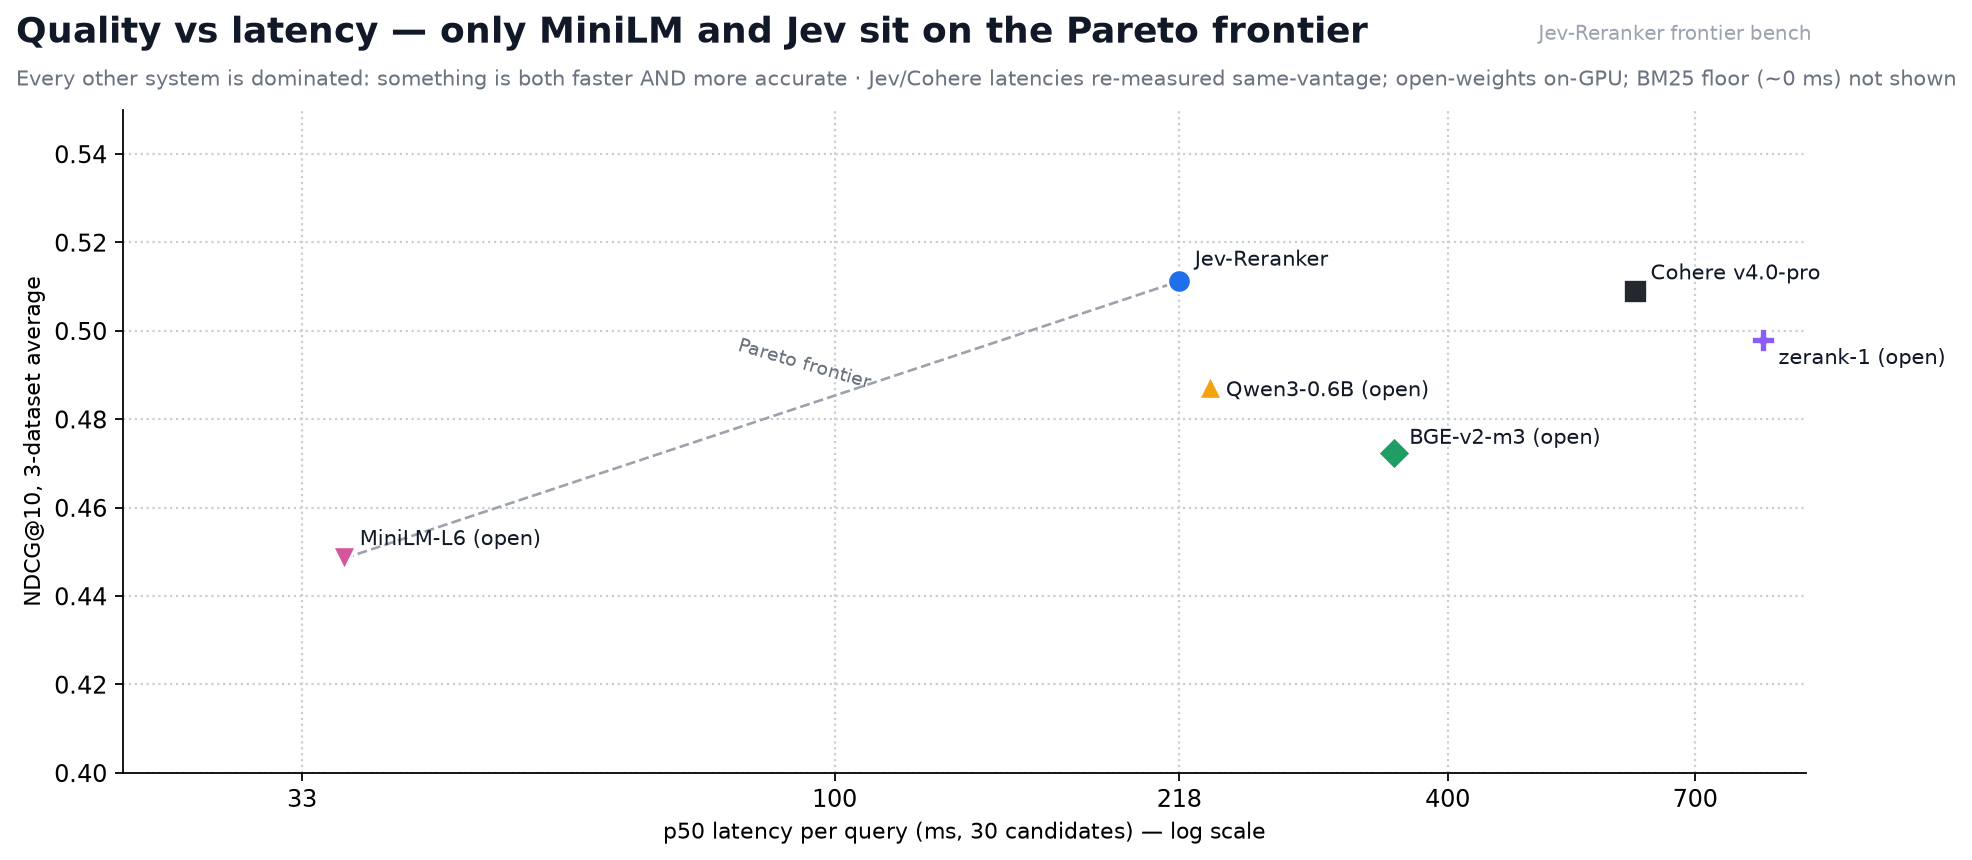
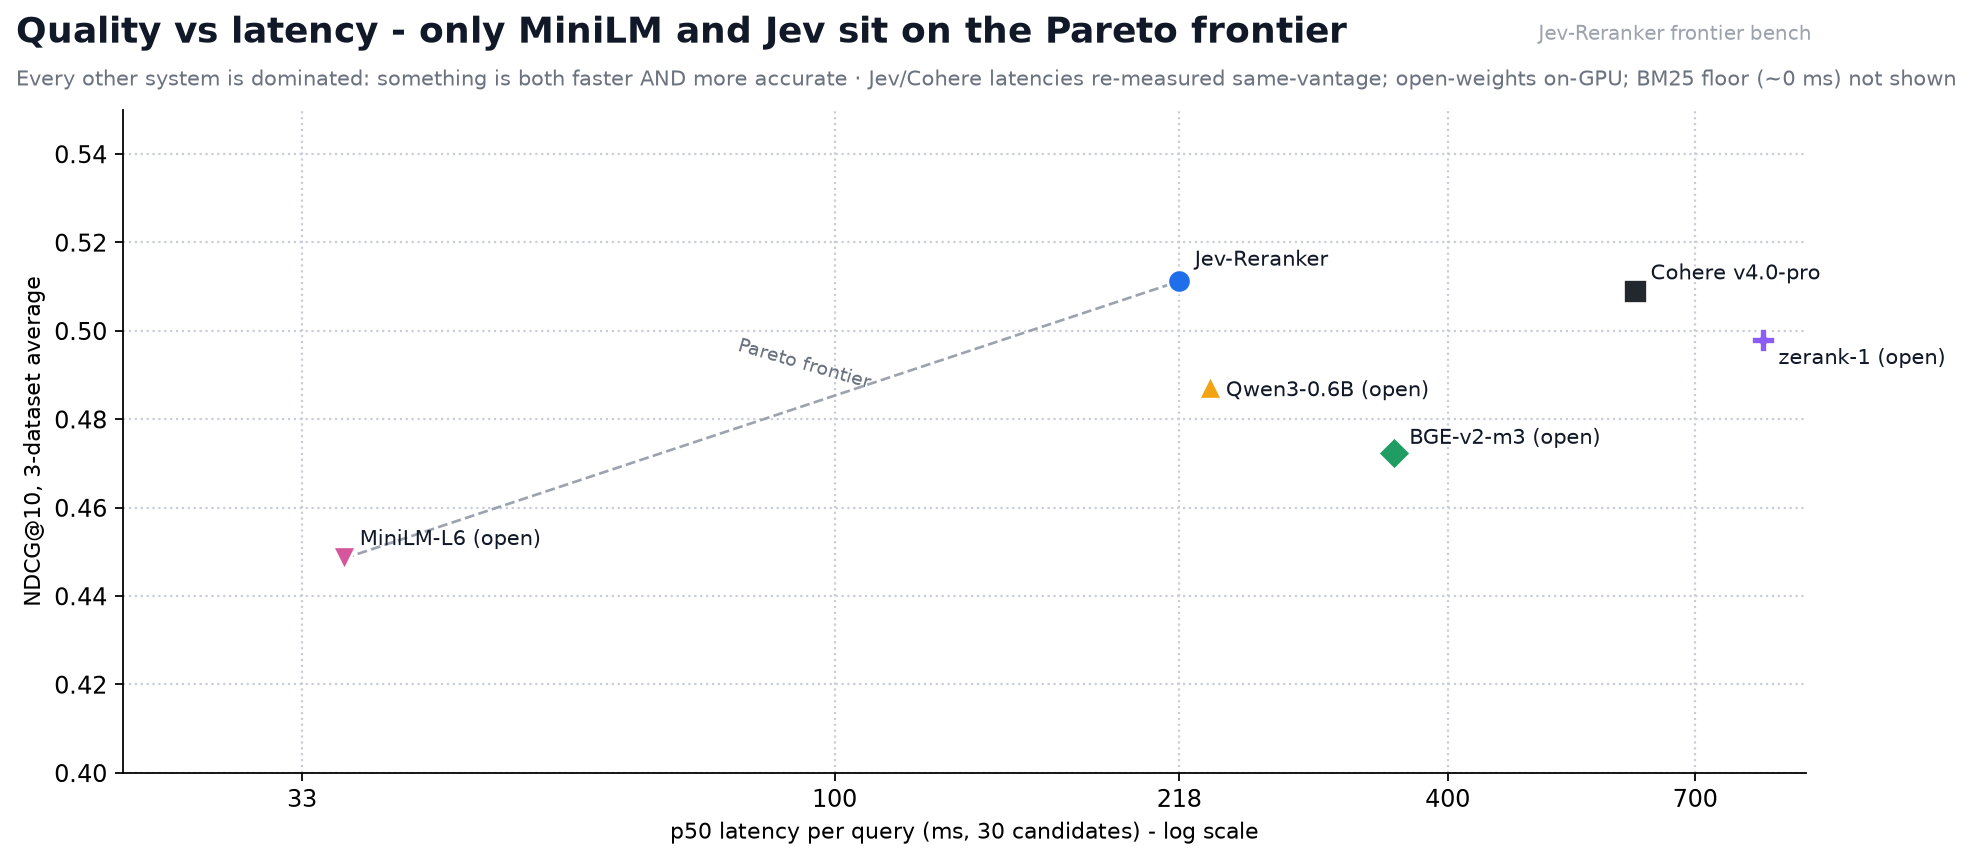
docs: replace em/en dashes with plain hyphens across all prose, docstrings and chart titles

Changed region(s): [[0.1856, 0.0, 0.7115, 0.0605], [0.3403, 0.9372, 0.6496, 0.9977]]

diff --git a/benchmarks/frontier/make_visuals.py b/benchmarks/frontier/make_visuals.py
@@ -1,7 +1,7 @@
 """Render the frontier-comparison charts from committed per-query rows.
 
 Every number shown is recomputed here from the committed JSONLs with
-pytrec_eval (the same evaluator the runners used) — nothing hand-typed.
+pytrec_eval (the same evaluator the runners used) - nothing hand-typed.
 Visual style follows the Artificial-Analysis leaderboard look: rounded
 bars, values inside, dotted grid, quiet axes.
 
@@ -108,7 +108,7 @@ def value_label(ax, x, height, ymax, text, inside=True):
 
 
 def aa_axes(ax, ymax):
-    """Dotted horizontal grid, no visible y-axis — values live in the bars."""
+    """Dotted horizontal grid, no visible y-axis - values live in the bars."""
     ax.set_ylim(0, ymax)
     ticks = np.linspace(0, ymax, 6)[1:]
     ax.set_yticks(ticks)
@@ -149,7 +149,7 @@ def main() -> None:
     keys_present = [k for k in COLORS if k in avgs]
     ymax = max(v for ds in DATASETS for v in summary[ds].values()) * 1.15
 
-    # Chart 1 — grouped bars per dataset.
+    # Chart 1 - grouped bars per dataset.
     fig, ax = plt.subplots(figsize=(13, 5.6), dpi=160)
     width = 0.8 / len(keys_present)
     x = np.arange(len(DATASETS))
@@ -173,7 +173,7 @@ def main() -> None:
     fig.savefig(ROOT / "frontier_ndcg_by_dataset.png", bbox_inches="tight")
     plt.close(fig)
 
-    # Chart 2 — 3-set average, sorted descending.
+    # Chart 2 - 3-set average, sorted descending.
     order = sorted(keys_present, key=lambda k: -avgs[k])
     fig, ax = plt.subplots(figsize=(12, 5.2), dpi=160)
     x = np.arange(len(order))
@@ -184,13 +184,13 @@ def main() -> None:
     ax.set_xlim(-0.5, len(order) - 0.5)
     ax.set_xticklabels([LABELS[k] for k in order], fontsize=10.5)
     aa_axes(ax, ymax)
-    masthead(fig, "3-dataset average — Jev-Reranker leads the frontier table",
+    masthead(fig, "3-dataset average - Jev-Reranker leads the frontier table",
              "NDCG@10, mean of scifact / nfcorpus / fiqa · mini-study: single seed, 200 queries per dataset")
     fig.subplots_adjust(top=0.8, bottom=0.1, left=0.03, right=0.985)
     fig.savefig(ROOT / "frontier_average_ndcg.png", bbox_inches="tight")
     plt.close(fig)
 
-    # Chart 3 — lift over the BM25 floor.
+    # Chart 3 - lift over the BM25 floor.
     rerank_keys = [k for k in RERANKERS if k in avgs]
     fig, ax = plt.subplots(figsize=(13, 5.4), dpi=160)
     width = 0.8 / len(rerank_keys)
@@ -215,7 +215,7 @@ def main() -> None:
     fig.savefig(ROOT / "frontier_lift_over_bm25.png", bbox_inches="tight")
     plt.close(fig)
 
-    # Chart 4 — latency, same-vantage API pair + on-GPU lanes.
+    # Chart 4 - latency, same-vantage API pair + on-GPU lanes.
     lat = [
         ("MiniLM-L6 (open)\non-GPU", ONNODE_LATENCY["ms-marco-minilm-l6-v2"], "#D6569B"),
         ("Qwen3-0.6B (open)\non-GPU", ONNODE_LATENCY["qwen3-reranker-0.6b"], "#F2A30F"),
@@ -234,7 +234,7 @@ def main() -> None:
     ax.set_xticks(x)
     ax.set_xticklabels([n for n, _, _ in lat], fontsize=10)
     aa_axes(ax, lat_ymax)
-    masthead(fig, "Latency per query — p50, 30 candidates",
+    masthead(fig, "Latency per query - p50, 30 candidates",
              "Jev & Cohere re-measured from the SAME vantage, rotating live queries, n=10, zero cache hits (fair pair) · "
              "open-weights lanes measured on-node · different vantages are directional only")
     fig.subplots_adjust(top=0.8, bottom=0.12, left=0.03, right=0.985)
@@ -242,7 +242,7 @@ def main() -> None:
     plt.close(fig)
 
 
-    # Chart 5 — quality vs latency frontier (two parameters, one view).
+    # Chart 5 - quality vs latency frontier (two parameters, one view).
     zerank_lats2 = []
     for ds in DATASETS:
         for line in (ROOT / f"{ds}__zerank-1.jsonl").read_text(encoding="utf-8").splitlines():
@@ -285,9 +285,9 @@ def main() -> None:
     ax.set_axisbelow(True)
     for side in ("top", "right"):
         ax.spines[side].set_visible(False)
-    ax.set_xlabel("p50 latency per query (ms, 30 candidates) — log scale", fontsize=10)
+    ax.set_xlabel("p50 latency per query (ms, 30 candidates) - log scale", fontsize=10)
     ax.set_ylabel("NDCG@10, 3-dataset average", fontsize=10)
-    masthead(fig, "Quality vs latency — only MiniLM and Jev sit on the Pareto frontier",
+    masthead(fig, "Quality vs latency - only MiniLM and Jev sit on the Pareto frontier",
              "Every other system is dominated: something is both faster AND more accurate · "
              "Jev/Cohere latencies re-measured same-vantage; open-weights on-GPU; BM25 floor (~0 ms) not shown")
     ax.annotate("Pareto frontier", (80, 0.487), fontsize=8.5, color="#6B7280", rotation=-16)
@@ -295,7 +295,7 @@ def main() -> None:
     fig.savefig(ROOT / "frontier_quality_vs_latency.png", bbox_inches="tight")
     plt.close(fig)
 
-    # Chart 6 — systems x datasets heatmap (all three datasets + average).
+    # Chart 6 - systems x datasets heatmap (all three datasets + average).
     heat_keys = sorted(keys_present, key=lambda k: -avgs[k])
     cols = list(DATASETS) + ["average"]
     matrix = []
@@ -327,7 +327,7 @@ def main() -> None:
     fig.savefig(ROOT / "frontier_heatmap.png", bbox_inches="tight")
     plt.close(fig)
 
-    # Chart 7 — open-weights quality vs model size, hosted APIs as reference lines.
+    # Chart 7 - open-weights quality vs model size, hosted APIs as reference lines.
     scale = [
         ("MiniLM-L6", 0.022, avgs["ms-marco-minilm-l6-v2"], "#D6569B", (6, -12)),
         ("BGE-v2-m3", 0.568, avgs["bge-reranker-v2-m3"], "#1F9D63", (6, -12)),
@@ -337,9 +337,9 @@ def main() -> None:
     fig, ax = plt.subplots(figsize=(11, 5.4), dpi=160)
     ax.axhline(avgs["jev-latest"], linestyle="--", color="#1F6FEB", linewidth=1.4, zorder=2)
     ax.axhline(avgs["cohere"], linestyle="--", color="#23272E", linewidth=1.2, zorder=2)
-    ax.annotate("Jev-Reranker (API) — 0.511", (0.023, avgs["jev-latest"]), xytext=(4, 5),
+    ax.annotate("Jev-Reranker (API) - 0.511", (0.023, avgs["jev-latest"]), xytext=(4, 5),
                 textcoords="offset points", fontsize=9.5, fontweight="bold", color="#1F6FEB")
-    ax.annotate("Cohere v4.0-pro (API) — 0.509", (0.023, avgs["cohere"]), xytext=(4, -12),
+    ax.annotate("Cohere v4.0-pro (API) - 0.509", (0.023, avgs["cohere"]), xytext=(4, -12),
                 textcoords="offset points", fontsize=9.5, color="#23272E")
     for name, params, qual, color, off in scale:
         ax.scatter(params, qual, s=120, color=color, edgecolor="white", linewidth=1.2, zorder=4)

diff --git a/src/jev_reranker/rubric.py b/src/jev_reranker/rubric.py
@@ -1,13 +1,13 @@
 """Question rubrics: the text Jev is actually asked, per head.
 
 The policy math is domain-generic, but the *questions* encode what a domain
-means by "relevant", "usable", "superseded", "conflicting" — so they are
+means by "relevant", "usable", "superseded", "conflicting" - so they are
 configurable. A :class:`Rubric` carries one question per head (``rel``/``util``
 Score heads with 4-level 0-3 criteria, ``sup``/``con`` Noul heads with
 true/false criteria). Instructions may contain the literal token ``[cid]``,
 replaced with each candidate's id at question-build time.
 
-Built-in presets: ``agent_memory`` (the default — byte-identical to the
+Built-in presets: ``agent_memory`` (the default - byte-identical to the
 originally hard-coded questions), ``generic_retrieval`` (documents/RAG), and
 ``code_search``. A fully custom rubric is one ``Rubric`` instance away:
 ``JevReranker(rubric=Rubric(...))``.
@@ -85,7 +85,7 @@ AGENT_MEMORY = Rubric(
     ),
     sup=NoulHeadRubric(
         instructions=(
-            "Is the fact in candidate [cid] superseded — that is, replaced or invalidated "
+            "Is the fact in candidate [cid] superseded - that is, replaced or invalidated "
             "by newer information about the same fact (in the other candidates or the query)?"
         ),
         criteria={
@@ -124,7 +124,7 @@ GENERIC_RETRIEVAL = Rubric(
     ),
     sup=NoulHeadRubric(
         instructions=(
-            "Is the content in candidate [cid] superseded — replaced or invalidated by newer "
+            "Is the content in candidate [cid] superseded - replaced or invalidated by newer "
             "information about the same subject (in the other candidates or the query)?"
         ),
         criteria={
@@ -163,7 +163,7 @@ CODE_SEARCH = Rubric(
     ),
     sup=NoulHeadRubric(
         instructions=(
-            "Is the code in candidate [cid] superseded — a deprecated or replaced API/version "
+            "Is the code in candidate [cid] superseded - a deprecated or replaced API/version "
             "made obsolete by newer information (in the other candidates or the query)?"
         ),
         criteria={

diff --git a/demo/arena.py b/demo/arena.py
@@ -127,7 +127,7 @@ LABEL_COLORS = {
 def render_html(sample_results: list[dict[str, Any]]) -> str:
     parts = [
         "<!doctype html><html><head><meta charset='utf-8'>",
-        "<title>Reranker Arena — Jev-Reranker</title>",
+        "<title>Reranker Arena - Jev-Reranker</title>",
         "<style>",
         "body{font-family:system-ui,sans-serif;margin:2rem;background:#f8fafc;color:#0f172a}",
         "h1{font-size:1.4rem} h2{font-size:1.1rem;margin-top:2rem}",
@@ -142,7 +142,7 @@ def render_html(sample_results: list[dict[str, Any]]) -> str:
         "font-family:ui-monospace,monospace;font-size:0.85rem}",
         ".text{font-size:0.85rem;color:#334155;margin-top:4px}",
         "</style></head><body>",
-        "<h1>Reranker Arena — retrieval order vs Jev-Reranker</h1>",
+        "<h1>Reranker Arena - retrieval order vs Jev-Reranker</h1>",
     ]
     for r in sample_results:
         parts.append(f"<h2>Query: {r['query']}</h2>")
@@ -198,7 +198,7 @@ def main() -> None:
     try:
         import streamlit as st
 
-        st.title("Reranker Arena — retrieval order vs Jev-Reranker")
+        st.title("Reranker Arena - retrieval order vs Jev-Reranker")
         idx = st.selectbox("sample", range(len(SAMPLES)), format_func=lambda i: SAMPLES[i]["query"])
         s = SAMPLES[int(idx)]
         query = st.text_input("query", s["query"])
@@ -207,7 +207,7 @@ def main() -> None:
         if st.button("Rerank"):
             out = run_demo(query, [t for t in texts if t.strip()], budget_tokens=budget)
             for x in out["reranked"]:
-                st.markdown(f"**{x['id']}** `{x['label']}` value={x['value']} — {x['text']}")
+                st.markdown(f"**{x['id']}** `{x['label']}` value={x['value']} - {x['text']}")
                 for name, val in x["heads"].items():
                     st.progress(val, text=f"{name} {val:.2f}")
             st.json({k: v for k, v in out.items() if k != "reranked"})

diff --git a/src/jev_reranker/policy.py b/src/jev_reranker/policy.py
@@ -1,7 +1,7 @@
 """Deterministic ranking policy.
 
 Jev makes judgments (relevance Score 0-3, utility Score 0-3, superseded Noul,
-conflict Noul). This module — pure Python, no model calls — turns those
+conflict Noul). This module - pure Python, no model calls - turns those
 judgments into a ranking. Transparent, configurable coefficients, versioned.
 
 Hard rules:
@@ -123,7 +123,7 @@ def assign_label(
 
     Head flags gate on their OWN probability: superseded/conflict are Noul
     probabilities, so STALE/CONFLICT fire when the head crosses its threshold
-    (dominant head wins when both fire) — never on Score-head confidence.
+    (dominant head wins when both fire) - never on Score-head confidence.
     Score-head confidence gates only the VALUE labels: below the gate an item
     becomes UNCERTAIN instead of acting on its value. Confidence never scales
     the value itself.
@@ -151,7 +151,7 @@ def apply_policy(
     cfg: PolicyConfig | None = None,
     heads: tuple[HeadName, ...] = ("rel", "util", "sup", "con"),
 ) -> list[RankedItem]:
-    """Rank candidates best-first. Pure function — no I/O, no model calls.
+    """Rank candidates best-first. Pure function - no I/O, no model calls.
 
     Deterministic ``source_priority`` metadata is a tie-breaker (after value
     and confidence, before retrieval order): never a question to Jev.

diff --git a/src/jev_reranker/judges.py b/src/jev_reranker/judges.py
@@ -1,9 +1,9 @@
 """Judge backends: the thing that turns (query, candidates) into head judgments.
 
-- ``LiveJevJudge``: the real path — one ``TypeSafeClient.system_one()`` call
+- ``LiveJevJudge``: the real path - one ``TypeSafeClient.system_one()`` call
   per rerank with all active heads batched. Requires ``TYPESAFE_API_KEY``.
 - ``AsyncLiveJevJudge``: identical but on the SDK's native async client
-  (``AsyncTypeSafeClient``) — one async call per rerank, no executor.
+  (``AsyncTypeSafeClient``) - one async call per rerank, no executor.
 - ``OfflineJudge``: deterministic lexical judge with identical answer shapes,
   for tests / synthetic eval / demos without a key. Clearly labeled everywhere
   it is used; never presented as Jev output.
@@ -60,7 +60,7 @@ class Judge(Protocol):
 
 
 class AsyncJudge(Protocol):
-    """Async twin of :class:`Judge` — one awaitable remote call per rerank."""
+    """Async twin of :class:`Judge` - one awaitable remote call per rerank."""
 
     @property
     def model_name(self) -> str: ...
@@ -245,7 +245,7 @@ class LiveJevJudge:
 class AsyncLiveJevJudge:
     """Native-async Jev backend on the SDK's ``AsyncTypeSafeClient``.
 
-    One awaited ``system_one`` call per rerank — no thread executor.
+    One awaited ``system_one`` call per rerank - no thread executor.
     """
 
     def __init__(

diff --git a/src/jev_reranker/reranker.py b/src/jev_reranker/reranker.py
@@ -1,17 +1,17 @@
 """JevReranker: drop-in reranker API with three behavioral modes.
 
-- ``relevance``: classic query/passage rerank — the relevance head ONLY
+- ``relevance``: classic query/passage rerank - the relevance head ONLY
   (one Score question per candidate); value = normalized relevance.
 - ``memory``: all four heads (relevance, utility, superseded, conflict);
   STALE/CONFLICT/UNCERTAIN labels surfaced.
 - ``context``: memory heads PLUS token-budget selection with embedding-based
   near-duplicate suppression. Two-pass structure, documented:
-    pass 1 (Jev): ONE batched call — 4 heads per candidate, ranked + labeled;
+    pass 1 (Jev): ONE batched call - 4 heads per candidate, ranked + labeled;
     pass 2 (local code): near-duplicate suppression (``dedup.py``), then a
     greedy value-per-token knapsack over the survivors. Pass 2 makes no
     remote calls.
 
-Async-first (``arerank``/``aselect``) — the judge call itself is awaited on
+Async-first (``arerank``/``aselect``) - the judge call itself is awaited on
 the SDK's async client when the judge supports it; sync wrappers
 (``rerank``/``select``) for drop-in use. Exactly one judge call per
 invocation (or cache hit).

diff --git a/src/jev_reranker/server.py b/src/jev_reranker/server.py
@@ -4,14 +4,14 @@
     uvicorn jev_reranker.server:app --port 8494
 
 Endpoints:
-- ``POST /rerank`` — Cohere-compatible: ``{query, documents, top_n}`` ->
+- ``POST /rerank`` - Cohere-compatible: ``{query, documents, top_n}`` ->
   ``{id, results: [{index, relevance_score, document}], meta}``
-- ``POST /select`` — token-budget selection: ``{query, documents, budget_tokens}``
-- ``GET  /health`` — judge/model info
+- ``POST /select`` - token-budget selection: ``{query, documents, budget_tokens}``
+- ``GET  /health`` - judge/model info
 
 The judge is chosen at startup like ``JevReranker()``: live Jev iff
 ``TYPESAFE_API_KEY`` is set, else the offline judge (``/health`` reports
-which one is serving — offline responses are never presented as Jev output).
+which one is serving - offline responses are never presented as Jev output).
 """
 
 from __future__ import annotations

diff --git a/src/jev_reranker/eval_synthetic.py b/src/jev_reranker/eval_synthetic.py
@@ -4,8 +4,8 @@ Generates N cases (default 300) across 6 hard categories, each with a query,
 candidates (1 gold), and gold labels. Runner executes the REAL pipeline
 (``JevReranker``) with either the live Jev judge (--judge live) or the
 deterministic OfflineJudge (default, CI-fast baseline) and reports measured
-metrics — recall@1/3, label F1 on STALE/CONFLICT, fallback rate, cache-hit
-rate, judge calls per rerank — plus a provenance block. Nothing is claimed
+metrics - recall@1/3, label F1 on STALE/CONFLICT, fallback rate, cache-hit
+rate, judge calls per rerank - plus a provenance block. Nothing is claimed
 without being measured here.
 
 For the harder 10-category benchmark see ``benchmarks/memorybench_jr/``.

diff --git a/src/jev_reranker/models.py b/src/jev_reranker/models.py
@@ -76,10 +76,10 @@ class PolicyConfig(BaseModel):
     """Transparent, configurable coefficients for the deterministic policy.
 
     Default scoring (owner section 7): ``U = 0.55*R + 0.45*V`` and
-    ``J = U*(1-0.75*S)*(1-0.25*C)`` — the multiplicative penalty form.
+    ``J = U*(1-0.75*S)*(1-0.25*C)`` - the multiplicative penalty form.
     ``penalty_form="additive"`` keeps the legacy ``U - 0.80*S - 0.60*C``.
 
-    Confidence NEVER multiplies into the score — it only gates labels/actions.
+    Confidence NEVER multiplies into the score - it only gates labels/actions.
     ``source_priority`` is deterministic metadata applied in code; never a
     question to Jev.
     """

diff --git a/benchmarks/frontier/data.py b/benchmarks/frontier/data.py
@@ -4,7 +4,7 @@ Loads the official BEIR repo files from huggingface.co/datasets/BeIR/<name>
 (parquet shards for corpus/queries, TSV qrels from the BeIR/<name>-qrels
 repo). pyarrow ships musllinux wheels, so this works on the Alpine/musl
 benchmark host without a compiler.
-Candidates come from bm25s with a lean tokenizer (lowercase, no stemmer) —
+Candidates come from bm25s with a lean tokenizer (lowercase, no stemmer) -
 deliberately simple because the floor is shared identically by every system;
 published BM25 numbers used heavier pipelines and will differ (noted in the
 README).

diff --git a/examples/generic_retrieval.py b/examples/generic_retrieval.py
@@ -13,13 +13,13 @@ DOCS = [
     "Our office lunch menu rotates daily.",
 ]
 
-# 1. Built-in rubric preset — same pipeline, domain wording.
+# 1. Built-in rubric preset - same pipeline, domain wording.
 rr = JevReranker(rubric="code_search")
 res = rr.rerank("how do I check a k8s rollout?", DOCS, mode="relevance")
 for it in res.items:
     print("preset:", it.rank, round(it.relevance_score, 3), it.candidate.text[:50])
 
-# 2. Fully custom rubric — one dict per head.
+# 2. Fully custom rubric - one dict per head.
 legal = Rubric(
     name="legal",
     rel=ScoreHeadRubric(

diff --git a/src/jev_reranker/integrations/langchain.py b/src/jev_reranker/integrations/langchain.py
@@ -44,7 +44,7 @@ class JevRerankCompressor:
         return _attach(documents, metas, result)
 
     async def acompress_documents(self, documents: list[Any], query: str) -> list[Any]:
-        """Async twin — awaits the reranker directly instead of blocking."""
+        """Async twin - awaits the reranker directly instead of blocking."""
         texts = [d.page_content if hasattr(d, "page_content") else str(d) for d in documents]
         metas = [d.metadata if hasattr(d, "metadata") else {} for d in documents]
         result = await self.reranker.arerank(
